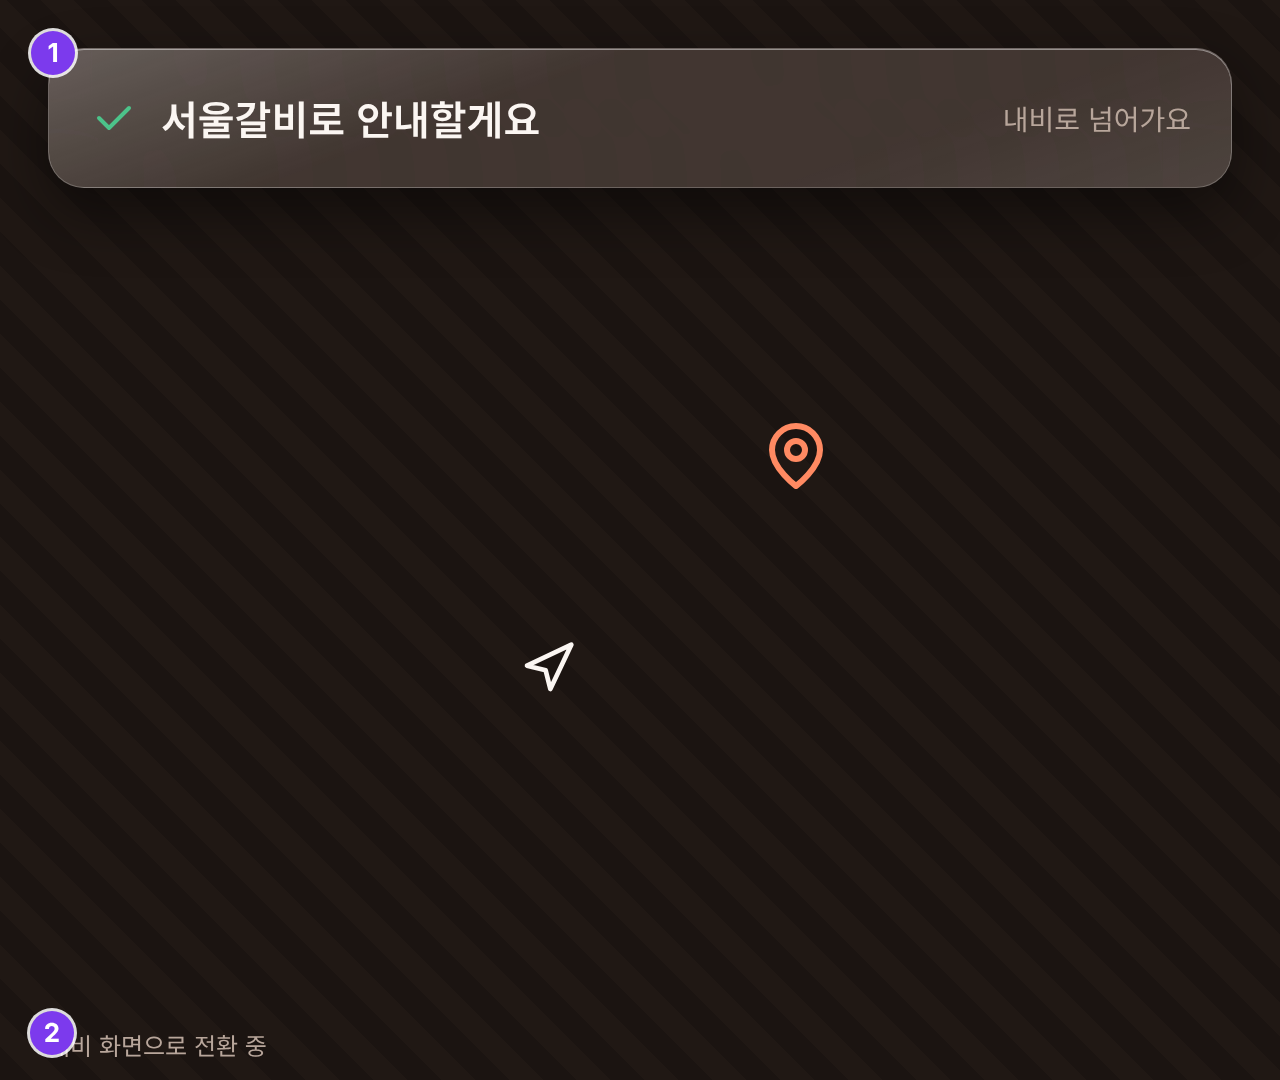
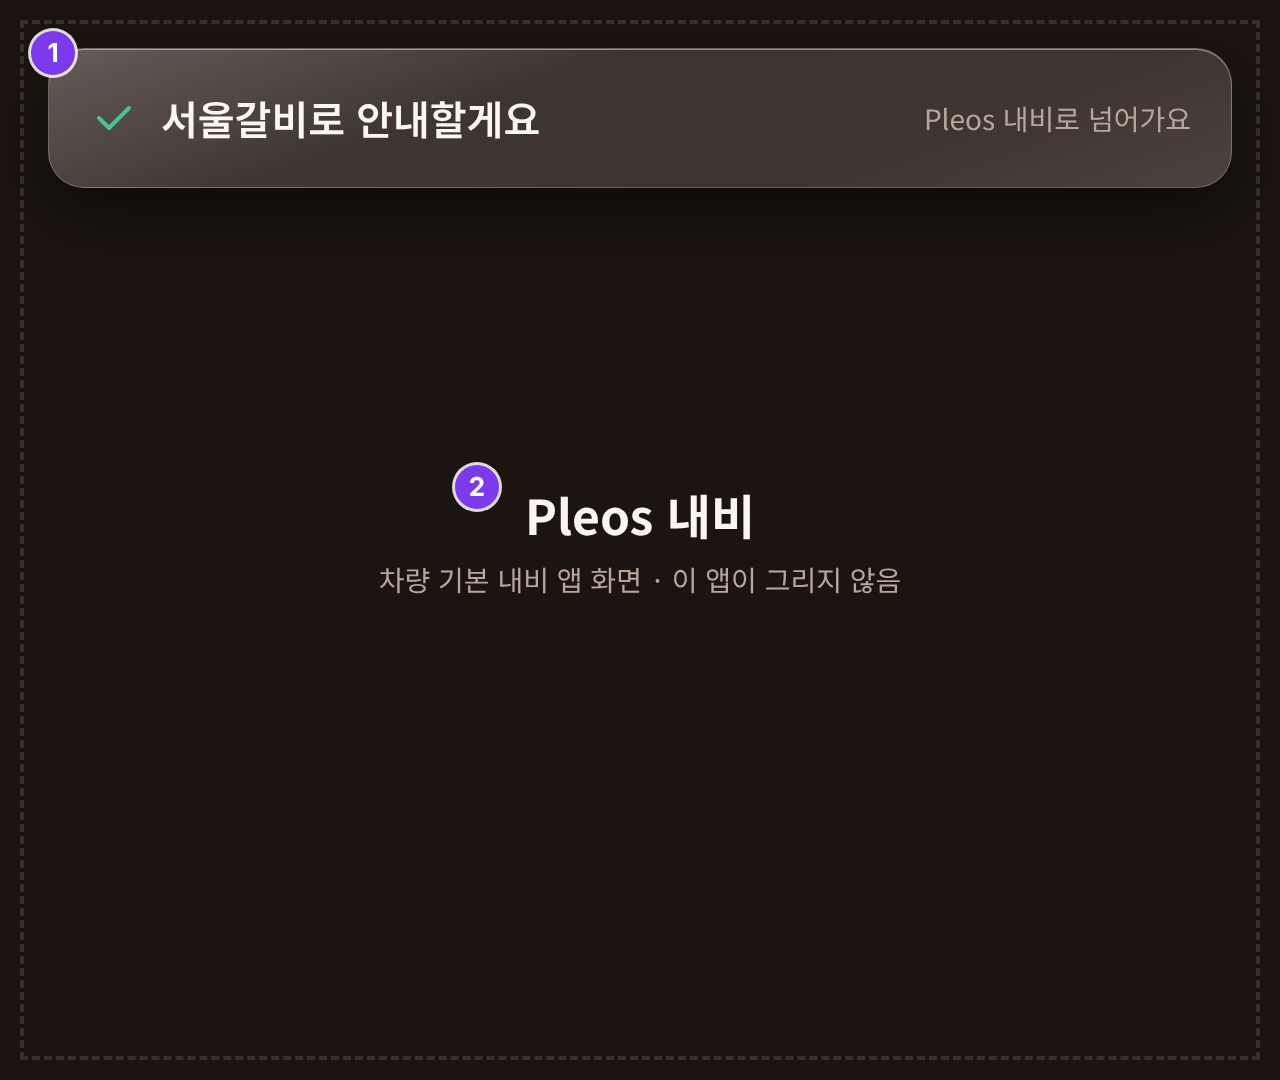
화면 설계서: S-05b 안내 시작을 Pleos 내비 화면으로 표시 (앱 길안내 아님)
S-06c·S-15 문구도 Pleos 내비로 맞춤

diff --git a/docs/02_화면설계서.html b/docs/02_화면설계서.html
@@ -112,6 +112,7 @@ th{background:var(--head);font-weight:600;white-space:nowrap}
 .mapph .lab.bot{top:auto;bottom:20px}
 .mapph .pin{position:absolute;color:var(--acc-t)}
 .mapph .pin.me{color:var(--fg)}
+.mapph.extapp{background:var(--map1);outline:4px dashed var(--line);outline-offset:-24px}
 .overlay{position:absolute;inset:0;background:var(--overlay)}
 .toast{position:absolute;left:140px;right:140px;height:120px;border-radius:36px;background:var(--glass2) var(--hi);border:1px solid var(--edge);box-shadow:inset 0 1px 0 var(--spec),var(--shadow);backdrop-filter:blur(28px) saturate(170%);display:flex;align-items:center;gap:24px;padding:0 40px;font-size:32px;font-weight:600}
 .frame .ok,.toast .ok{color:var(--ok)}
@@ -506,7 +507,7 @@ th{background:var(--head);font-weight:600;white-space:nowrap}
    <div class="muted small" style="font-weight:400;padding-left:72px">멈추면 어느 가게인지 확인해 주세요</div>
  </div></div></div><div class="cap"><span>1280×1080 기준, 50% 축소</span><button type="button">다시 재생</button></div></div><div class="spec"><div class="tbl"><table class=""><thead><tr><th></th><th>요소</th><th>내용</th><th>동작</th></tr></thead><tbody><tr><td><span class="co">1</span></td><td>미확인 토스트</td><td>2줄, 4초</td><td>TTS “위치를 기억해 둘게요”</td></tr><tr><td><span class="co">2</span></td><td>최근 저장 카드</td><td>“이름 모름 · 도로명” + 칩 “미확인”</td><td>누르면 S-09 (정차 중)</td></tr></tbody></table></div><p class="note">S-04a와 동시에 뜨지 않는다. 둘 중 하나만.</p><p style="margin:.9em 0 .2em;font-weight:600">모션</p><div class="tbl"><table class=""><thead><tr><th>요소</th><th>움직임</th><th>시간 · 이징</th><th>계기</th></tr></thead><tbody><tr><td>토스트</td><td>S-04a와 같은 들어옴·나감</td><td>200ms / 200ms</td><td></td></tr><tr><td>최근 저장 카드</td><td>페이드 교체</td><td>200ms</td><td></td></tr></tbody></table></div></div></div><h3 id="gC" style="border-top:2px solid var(--line);font-size:1.35em">C. 근처 리마인드 <span class="meta" style="font-weight:400;font-size:.75em">· F-08, F-10</span></h3><h3 id="S-05">S-05 리마인드 <span class="meta" style="font-weight:400;font-size:.8em">· 주행 중 · F-08, F-10</span></h3><p class="meta" style="margin:0 0 .6em">들어오는 길: 저장 가게 500m 안 진입 (차량 알림)</p><div class="screen"><div class="shotwrap"><div class="shot"><div class="frame">
  <div class="body full" style="padding:0">
-   <div class="mapph" style="position:absolute;inset:0;border:0;border-radius:0"><div class="lab bot">현재 화면 (내비 등)</div></div>
+   <div class="mapph" style="position:absolute;inset:0;border:0;border-radius:0"><div class="lab bot">현재 화면 (Pleos 내비 등)</div></div>
    <div class="card a-down" data-co="1" style="position:absolute;left:48px;right:48px;top:48px;height:300px;display:flex;align-items:center;gap:32px;padding:36px 40px;background-color:var(--glass2)">
      <svg class="ic " width="72" height="72" viewBox="0 0 24 24" fill="none" stroke="currentColor" stroke-width="2" stroke-linecap="round" stroke-linejoin="round" aria-hidden="true"><path d="M20 10c0 6-8 12-8 12s-8-6-8-12a8 8 0 0 1 16 0Z"/><circle cx="12" cy="10" r="3"/></svg>
      <div style="flex:1">
@@ -521,12 +522,12 @@ th{background:var(--head);font-weight:600;white-space:nowrap}
  </div>
  </div></div><div class="cap"><span>1280×1080 기준, 50% 축소</span><button type="button">다시 재생</button> <span class="gif">· <a href="screens/anim/S-05.gif">GIF</a></span></div></div><div class="spec"><div class="tbl"><table class=""><thead><tr><th></th><th>요소</th><th>내용</th><th>동작</th></tr></thead><tbody><tr><td><span class="co">1</span></td><td>알림 카드</td><td>가게 이름·저장 시기·거리·방향. TTS “…300m 앞이에요. 갈까요?”</td><td>10초 뒤 자동으로 닫힘</td></tr><tr><td><span class="co">2</span></td><td>안내 시작</td><td>내비 목적지 설정 (requestRoute) → S-05b</td><td>음성 “응”과 같음</td></tr><tr><td><span class="co">3</span></td><td>닫기</td><td>오늘은 다시 알리지 않음</td><td>음성 “아니”·무응답과 같음</td></tr><tr><td><span class="co">4</span></td><td>남은 시간 막대</td><td>카드 아래 가장자리, 10초 동안 줄어듦</td><td></td></tr></tbody></table></div><p class="note">차량 알림(heads-up) 형태. 같은 가게는 하루 1회. 설정에서 식사 시간에만 받을 수 있다.</p><p style="margin:.9em 0 .2em;font-weight:600">모션</p><div class="tbl"><table class=""><thead><tr><th>요소</th><th>움직임</th><th>시간 · 이징</th><th>계기</th></tr></thead><tbody><tr><td>알림 카드</td><td>위에서 32dp 내려오며 페이드 인</td><td>240ms · emphasized</td><td>500m 진입</td></tr><tr><td>남은 시간 막대</td><td>가로 길이가 100 → 0%</td><td>10s · linear</td><td>TTS 끝난 뒤</td></tr><tr><td>닫힘</td><td>위로 32dp 올라가며 페이드 아웃</td><td>200ms</td><td>닫기 · 시간 끝 · 아니</td></tr></tbody></table></div></div></div><h3 id="S-05b">S-05b 리마인드 · 안내 시작 <span class="meta" style="font-weight:400;font-size:.8em">· 주행 중 · F-10</span></h3><p class="meta" style="margin:0 0 .6em">들어오는 길: S-05에서 안내 시작 · 음성 “응”</p><div class="screen"><div class="shotwrap"><div class="shot"><div class="frame">
  <div class="body full" style="padding:0">
-   <div class="mapph" style="position:absolute;inset:0;border:0;border-radius:0"><div class="lab bot" data-co="2" style="left:48px">내비 화면으로 전환 중</div><div class="pin" style="left:760px;top:420px"><svg class="ic " width="72" height="72" viewBox="0 0 24 24" fill="none" stroke="currentColor" stroke-width="2" stroke-linecap="round" stroke-linejoin="round" aria-hidden="true"><path d="M20 10c0 6-8 12-8 12s-8-6-8-12a8 8 0 0 1 16 0Z"/><circle cx="12" cy="10" r="3"/></svg></div><div class="pin me" style="left:520px;top:640px"><svg class="ic " width="56" height="56" viewBox="0 0 24 24" fill="none" stroke="currentColor" stroke-width="2" stroke-linecap="round" stroke-linejoin="round" aria-hidden="true"><path d="m3 11 19-9-9 19-2-8Z"/></svg></div></div>
+   <div class="mapph extapp" style="position:absolute;inset:0;border:0;border-radius:0;display:flex;flex-direction:column;align-items:center;justify-content:center;gap:16px"><div data-co="2" style="font-size:48px;font-weight:700;color:var(--fg);padding:0 52px">Pleos 내비</div><div style="font-size:28px">차량 기본 내비 앱 화면 · 이 앱이 그리지 않음</div></div>
    <div class="card a-pop" data-co="1" style="position:absolute;left:48px;right:48px;top:48px;height:140px;display:flex;align-items:center;gap:24px;padding:0 40px;background-color:var(--glass2)">
-     <svg class="ic ok" width="48" height="48" viewBox="0 0 24 24" fill="none" stroke="currentColor" stroke-width="2" stroke-linecap="round" stroke-linejoin="round" aria-hidden="true"><path d="m5 12 5 5L20 7"/></svg><div class="h40">서울갈비로 안내할게요</div><div class="muted" style="margin-left:auto;font-size:28px">내비로 넘어가요</div>
+     <svg class="ic ok" width="48" height="48" viewBox="0 0 24 24" fill="none" stroke="currentColor" stroke-width="2" stroke-linecap="round" stroke-linejoin="round" aria-hidden="true"><path d="m5 12 5 5L20 7"/></svg><div class="h40">서울갈비로 안내할게요</div><div class="muted" style="margin-left:auto;font-size:28px">Pleos 내비로 넘어가요</div>
    </div>
  </div>
- </div></div><div class="cap"><span>1280×1080 기준, 50% 축소</span><button type="button">다시 재생</button></div></div><div class="spec"><div class="tbl"><table class=""><thead><tr><th></th><th>요소</th><th>내용</th><th>동작</th></tr></thead><tbody><tr><td><span class="co">1</span></td><td>확인 문구</td><td>TTS로 같은 문장. 1.5초 뒤 사라짐</td><td></td></tr><tr><td><span class="co">2</span></td><td>내비 화면</td><td>Pleos 내비가 목적지 안내를 시작함</td><td>도착하면 F-11 방문 기록 → S-15</td></tr></tbody></table></div><p style="margin:.9em 0 .2em;font-weight:600">모션</p><div class="tbl"><table class=""><thead><tr><th>요소</th><th>움직임</th><th>시간 · 이징</th><th>계기</th></tr></thead><tbody><tr><td>카드 줄어듦</td><td>높이 300 → 140dp, 버튼 사라짐</td><td>200ms · standard</td><td>응답 직후</td></tr><tr><td>카드 닫힘</td><td>위로 올라가며 페이드</td><td>200ms</td><td>1.5초 뒤</td></tr></tbody></table></div></div></div><h3 id="gD" style="border-top:2px solid var(--line);font-size:1.35em">D. 추천 <span class="meta" style="font-weight:400;font-size:.75em">· F-09, F-10</span></h3><h3 id="S-06">S-06 추천 <span class="meta" style="font-weight:400;font-size:.8em">· 주행 중 · 정차 중 · F-09, F-10</span></h3><p class="meta" style="margin:0 0 .6em">들어오는 길: S-01 뭐 먹을까 / 음성 “뭐 먹을까”</p><div class="screen"><div class="shotwrap"><div class="shot"><div class="frame">
+ </div></div><div class="cap"><span>1280×1080 기준, 50% 축소</span><button type="button">다시 재생</button></div></div><div class="spec"><div class="tbl"><table class=""><thead><tr><th></th><th>요소</th><th>내용</th><th>동작</th></tr></thead><tbody><tr><td><span class="co">1</span></td><td>확인 문구</td><td>TTS로 같은 문장. 1.5초 뒤 사라짐</td><td></td></tr><tr><td><span class="co">2</span></td><td>Pleos 내비 화면</td><td>차량 기본 내비 앱이 화면을 넘겨받아 길안내. 앱은 목적지(가게 좌표 · 이름)만 넘기고 길을 그리지 않음</td><td>도착하면 F-11 방문 기록 → S-15</td></tr></tbody></table></div><p class="note">길안내는 Pleos 내비가 한다. 이 앱에는 길안내 화면이 없고, NaviHelper SDK로 목적지만 설정한다. 확인 문구는 Pleos 내비 화면 위에 잠깐 겹쳐 보인다.</p><p style="margin:.9em 0 .2em;font-weight:600">모션</p><div class="tbl"><table class=""><thead><tr><th>요소</th><th>움직임</th><th>시간 · 이징</th><th>계기</th></tr></thead><tbody><tr><td>카드 줄어듦</td><td>높이 300 → 140dp, 버튼 사라짐</td><td>200ms · standard</td><td>응답 직후</td></tr><tr><td>카드 닫힘</td><td>위로 올라가며 페이드</td><td>200ms</td><td>1.5초 뒤</td></tr></tbody></table></div></div></div><h3 id="gD" style="border-top:2px solid var(--line);font-size:1.35em">D. 추천 <span class="meta" style="font-weight:400;font-size:.75em">· F-09, F-10</span></h3><h3 id="S-06">S-06 추천 <span class="meta" style="font-weight:400;font-size:.8em">· 주행 중 · 정차 중 · F-09, F-10</span></h3><p class="meta" style="margin:0 0 .6em">들어오는 길: S-01 뭐 먹을까 / 음성 “뭐 먹을까”</p><div class="screen"><div class="shotwrap"><div class="shot"><div class="frame">
  <div class="top"><div class="iconbtn" data-co="b"><svg class="ic " width="48" height="48" viewBox="0 0 24 24" fill="none" stroke="currentColor" stroke-width="2" stroke-linecap="round" stroke-linejoin="round" aria-hidden="true"><path d="m15 5-7 7 7 7"/></svg></div><div class="title">뭐 먹을까</div></div>
  <div class="body" style="display:flex;flex-direction:column;gap:40px;align-items:center;padding-top:40px">
    <div style="display:flex;gap:40px">
@@ -590,9 +591,9 @@ th{background:var(--head);font-weight:600;white-space:nowrap}
  </div>
  <div class="toast live" data-co="2" style="top:920px"><svg class="ic ok" width="44" height="44" viewBox="0 0 24 24" fill="none" stroke="currentColor" stroke-width="2" stroke-linecap="round" stroke-linejoin="round" aria-hidden="true"><path d="m3 11 19-9-9 19-2-8Z"/></svg><span>서울갈비로 안내할게요</span></div>
  <style>.frame [data-sel]{border:2px solid var(--accent);box-shadow:0 0 0 6px var(--acc-ring),var(--shadow)}.frame [data-sel] .a-dim{opacity:1}</style>
- </div></div><div class="cap"><span>1280×1080 기준, 50% 축소</span><button type="button">다시 재생</button></div></div><div class="spec"><div class="tbl"><table class=""><thead><tr><th></th><th>요소</th><th>내용</th><th>동작</th></tr></thead><tbody><tr><td><span class="co">1</span></td><td>선택한 카드</td><td>테두리 주황 + 4% 확대, 나머지 카드는 흐려짐</td><td>1.5초 뒤 홈으로 돌아가고 내비가 안내 시작</td></tr><tr><td><span class="co">2</span></td><td>안내 토스트</td><td>“서울갈비로 안내할게요” + TTS 동일</td><td></td></tr><tr><td><span class="co">←</span></td><td>뒤로</td><td>홈 (선택 취소)</td><td></td></tr></tbody></table></div><p style="margin:.9em 0 .2em;font-weight:600">모션</p><div class="tbl"><table class=""><thead><tr><th>요소</th><th>움직임</th><th>시간 · 이징</th><th>계기</th></tr></thead><tbody><tr><td>선택 카드</td><td>100 → 104% 확대, 테두리 주황</td><td>200ms · standard</td><td>선택 직후</td></tr><tr><td>나머지 카드</td><td>불투명도 100 → 40%</td><td>200ms</td><td>선택 카드와 동시</td></tr><tr><td>토스트</td><td>아래에서 올라옴</td><td>200ms</td><td>선택 직후</td></tr><tr><td>홈으로</td><td>페이드</td><td>160ms</td><td>1.5초 뒤</td></tr></tbody></table></div></div></div><h3 id="gE" style="border-top:2px solid var(--line);font-size:1.35em">E. 방문 기록 <span class="meta" style="font-weight:400;font-size:.75em">· F-11</span></h3><h3 id="S-15">S-15 방문 메모 <span class="meta" style="font-weight:400;font-size:.8em">· 주행 중 · 정차 중 · F-11</span></h3><p class="meta" style="margin:0 0 .6em">들어오는 길: 내비 도착 + 10분 체류 뒤 다시 출발할 때 (차량 알림)</p><div class="screen"><div class="shotwrap"><div class="shot"><div class="frame">
+ </div></div><div class="cap"><span>1280×1080 기준, 50% 축소</span><button type="button">다시 재생</button></div></div><div class="spec"><div class="tbl"><table class=""><thead><tr><th></th><th>요소</th><th>내용</th><th>동작</th></tr></thead><tbody><tr><td><span class="co">1</span></td><td>선택한 카드</td><td>테두리 주황 + 4% 확대, 나머지 카드는 흐려짐</td><td>1.5초 뒤 홈으로 돌아가고 Pleos 내비가 안내 시작 (S-05b와 같음)</td></tr><tr><td><span class="co">2</span></td><td>안내 토스트</td><td>“서울갈비로 안내할게요” + TTS 동일</td><td></td></tr><tr><td><span class="co">←</span></td><td>뒤로</td><td>홈 (선택 취소)</td><td></td></tr></tbody></table></div><p style="margin:.9em 0 .2em;font-weight:600">모션</p><div class="tbl"><table class=""><thead><tr><th>요소</th><th>움직임</th><th>시간 · 이징</th><th>계기</th></tr></thead><tbody><tr><td>선택 카드</td><td>100 → 104% 확대, 테두리 주황</td><td>200ms · standard</td><td>선택 직후</td></tr><tr><td>나머지 카드</td><td>불투명도 100 → 40%</td><td>200ms</td><td>선택 카드와 동시</td></tr><tr><td>토스트</td><td>아래에서 올라옴</td><td>200ms</td><td>선택 직후</td></tr><tr><td>홈으로</td><td>페이드</td><td>160ms</td><td>1.5초 뒤</td></tr></tbody></table></div></div></div><h3 id="gE" style="border-top:2px solid var(--line);font-size:1.35em">E. 방문 기록 <span class="meta" style="font-weight:400;font-size:.75em">· F-11</span></h3><h3 id="S-15">S-15 방문 메모 <span class="meta" style="font-weight:400;font-size:.8em">· 주행 중 · 정차 중 · F-11</span></h3><p class="meta" style="margin:0 0 .6em">들어오는 길: 내비 도착 + 10분 체류 뒤 다시 출발할 때 (차량 알림)</p><div class="screen"><div class="shotwrap"><div class="shot"><div class="frame">
  <div class="body full" style="padding:0">
-   <div class="mapph" style="position:absolute;inset:0;border:0;border-radius:0"><div class="lab bot">현재 화면 (내비 등)</div></div>
+   <div class="mapph" style="position:absolute;inset:0;border:0;border-radius:0"><div class="lab bot">현재 화면 (Pleos 내비 등)</div></div>
    <div class="card a-down" data-co="1" style="position:absolute;left:48px;right:48px;top:48px;height:300px;display:flex;align-items:center;gap:32px;padding:36px 40px;background-color:var(--glass2)">
      <svg class="ic " width="72" height="72" viewBox="0 0 24 24" fill="none" stroke="currentColor" stroke-width="2" stroke-linecap="round" stroke-linejoin="round" aria-hidden="true"><path d="M4 22V4a1 1 0 0 1 1-1h11l-2 4 2 4H5"/></svg>
      <div style="flex:1">

diff --git a/docs/02_화면설계서.md b/docs/02_화면설계서.md
@@ -564,7 +564,9 @@ S-04a와 동시에 뜨지 않는다. 둘 중 하나만.
 | 번호 | 요소 | 내용 | 동작 |
 | --- | --- | --- | --- |
 | 1 | 확인 문구 | TTS로 같은 문장. 1.5초 뒤 사라짐 |  |
-| 2 | 내비 화면 | Pleos 내비가 목적지 안내를 시작함 | 도착하면 F-11 방문 기록 → S-15 |
+| 2 | Pleos 내비 화면 | 차량 기본 내비 앱이 화면을 넘겨받아 길안내. 앱은 목적지(가게 좌표 · 이름)만 넘기고 길을 그리지 않음 | 도착하면 F-11 방문 기록 → S-15 |
+
+길안내는 Pleos 내비가 한다. 이 앱에는 길안내 화면이 없고, NaviHelper SDK로 목적지만 설정한다. 확인 문구는 Pleos 내비 화면 위에 잠깐 겹쳐 보인다.
 
 모션
 
@@ -630,7 +632,7 @@ S-04a와 동시에 뜨지 않는다. 둘 중 하나만.
 
 | 번호 | 요소 | 내용 | 동작 |
 | --- | --- | --- | --- |
-| 1 | 선택한 카드 | 테두리 주황 + 4% 확대, 나머지 카드는 흐려짐 | 1.5초 뒤 홈으로 돌아가고 내비가 안내 시작 |
+| 1 | 선택한 카드 | 테두리 주황 + 4% 확대, 나머지 카드는 흐려짐 | 1.5초 뒤 홈으로 돌아가고 Pleos 내비가 안내 시작 (S-05b와 같음) |
 | 2 | 안내 토스트 | “서울갈비로 안내할게요” + TTS 동일 |  |
 | 뒤로 | 뒤로 | 홈 (선택 취소) |  |
 
